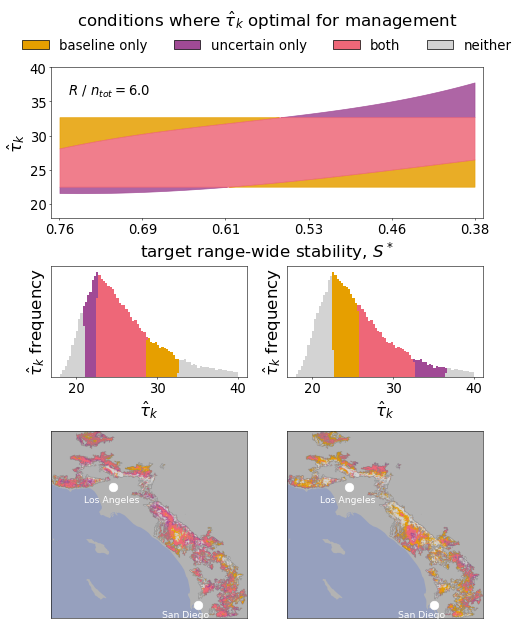
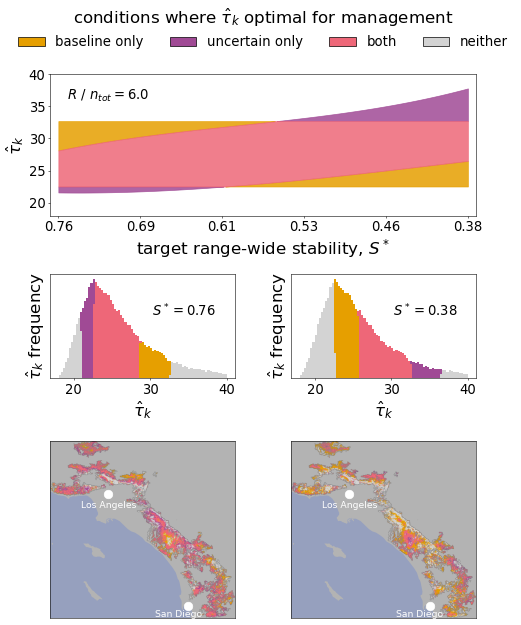
Tweak Fig 4

diff --git a/sensitivity/make_figures.py b/sensitivity/make_figures.py
@@ -36,8 +36,8 @@ rc('font', weight='light')
 rc('font', size=19)
 histlw = 5.5
 cbar_lpad = 30
-dpi = 50
-#dpi = 200
+#dpi = 50
+dpi = 200
 custom_colors = ['lightgrey', '#e69f00', '#ee6778', '#a04a95'] #pop
 
 def add_map_decorations(
@@ -387,7 +387,8 @@ if 2 in flist:
 if 3 in flist:
     # Initalize figure
     fig = plt.figure(figsize=np.array([7.75, 5])*2.5)
-    gs = GridSpec(3, 2, figure=fig, width_ratios=[1,1], height_ratios=[1.5,1,1])
+    gs = GridSpec(3, 2, figure=fig, width_ratios=[1,1], height_ratios=[1.5,1,1],
+                 wspace=10)
     ax1 = fig.add_subplot(gs[0, 0])
     ax2 = fig.add_subplot(gs[0, 1])
     ax3 = fig.add_subplot(gs[1:, 0])
@@ -598,6 +599,7 @@ if 3 in flist:
 if 4 in flist:
     xlens = np.array([1.0433, 1.0433]) # left to right
     ylens = np.array([0.2, 2.25/3, 0.55, 1])  # legend row, top, mid, bottom
+    #ylens = np.array([0.2, 2.15/3, 0.1, 0.5, 1])  # legend row, top, mid, bottom
     scale = 5
     xlens *= scale; ylens *= scale
     figsize = np.array([np.sum(xlens), np.sum(ylens)])
@@ -607,6 +609,7 @@ if 4 in flist:
         [
          ['legend', 'legend'],
          ['top', 'top'],
+         #['space', 'space'],
          ['mid left', 'mid right'],
          ['bottom left', 'bottom right']
         ],
@@ -617,6 +620,7 @@ if 4 in flist:
 
     # Hide the legend axes frame and ticks
     axd['legend'].axis('off')
+    #axd['space'].axis('off')
 
     # Make legend handles
     custom_colors_forlegend = np.array(custom_colors)[[1,3,2,0]]
@@ -822,6 +826,10 @@ if 4 in flist:
             label=[labels[i] for i in range(len(custom_colors))]
         )
 
+        # Annotate Sstar value
+        Sstar = S_opt_baseline * (1-q_samples[i])
+        axd[ax_label].annotate(fr'$S^*={np.round(Sstar, 2)}$', (0.55, 0.6), xycoords='axes fraction')
+
         axd[ax_label].set_xlabel(r'$\hat{\tau}_k$')
         axd[ax_label].set_ylabel(r'$\hat{\tau}_k$ frequency')
         axd[ax_label].set_yticks([])
@@ -872,7 +880,18 @@ if 4 in flist:
                 zorder=4
             )
 
-    fig.savefig(pproc.figs_dir + '/fig4_pre.png', bbox_inches='tight', dpi=dpi)
+    #fig.tight_layout(pad=2)
+    #fig.subplots_adjust(wspace=0.4, hspace=0.6, left=0.1, right=0.9, bottom=0.1, top=0.9)
+    #pads = {}
+    #fig.set_constrained_layout_pads(w_pad=0.14, h_pad=0.15, 
+    #                                wspace=0.05, hspace=0.05)
+    #fig.get_layout_engine().set(w_pad=0.14, h_pad=0.15, 
+    #                            hspace=0.0, wspace=0.0)
+    fig.get_layout_engine().set(w_pad=0.08, h_pad=0.02, 
+                                wspace=0.04, hspace=0.09)
+
+    #fig.savefig(pproc.figs_dir + '/fig4_pre.png', bbox_inches='tight', dpi=dpi)
+    fig.savefig(pproc.figs_dir + '/fig4_pre.png', dpi=dpi)
     fig.savefig(pproc.figs_dir + '/fig4_pre.svg', bbox_inches='tight')
 
 #########

diff --git a/sensitivity/project.py b/sensitivity/project.py
@@ -168,9 +168,9 @@ class Phase:
                 tau_all = np.load(fn)
 
             self.data_dir = f"{self.meta_metric}/data/Aeff_{self.Aeff}/tfinal_{self.t_final}/metric_{self.metric}"
-            self.figs_dir = f"{self.meta_metric}/figs/Aeff_{self.Aeff}/tfinal_{self.t_final}/metric_{self.metric}"
-            #self.figs_dir = os.path.join('/','Volumes', 'Macintosh HD', 'Users', 'patrick',
-            #                             'Google Drive', 'My Drive', 'Research', 'Regan', 'Figs/')
+            #self.figs_dir = f"{self.meta_metric}/figs/Aeff_{self.Aeff}/tfinal_{self.t_final}/metric_{self.metric}"
+            self.figs_dir = os.path.join('/','Volumes', 'Macintosh HD', 'Users', 'patrick',
+                                         'Google Drive', 'My Drive', 'Research', 'Regan', 'Figs/')
             fn = self.data_dir + f"/metric_all.npy"
             if (not os.path.isfile(fn)) or self.overwrite_metrics:
                 # Loop over all jobs and process metric data
